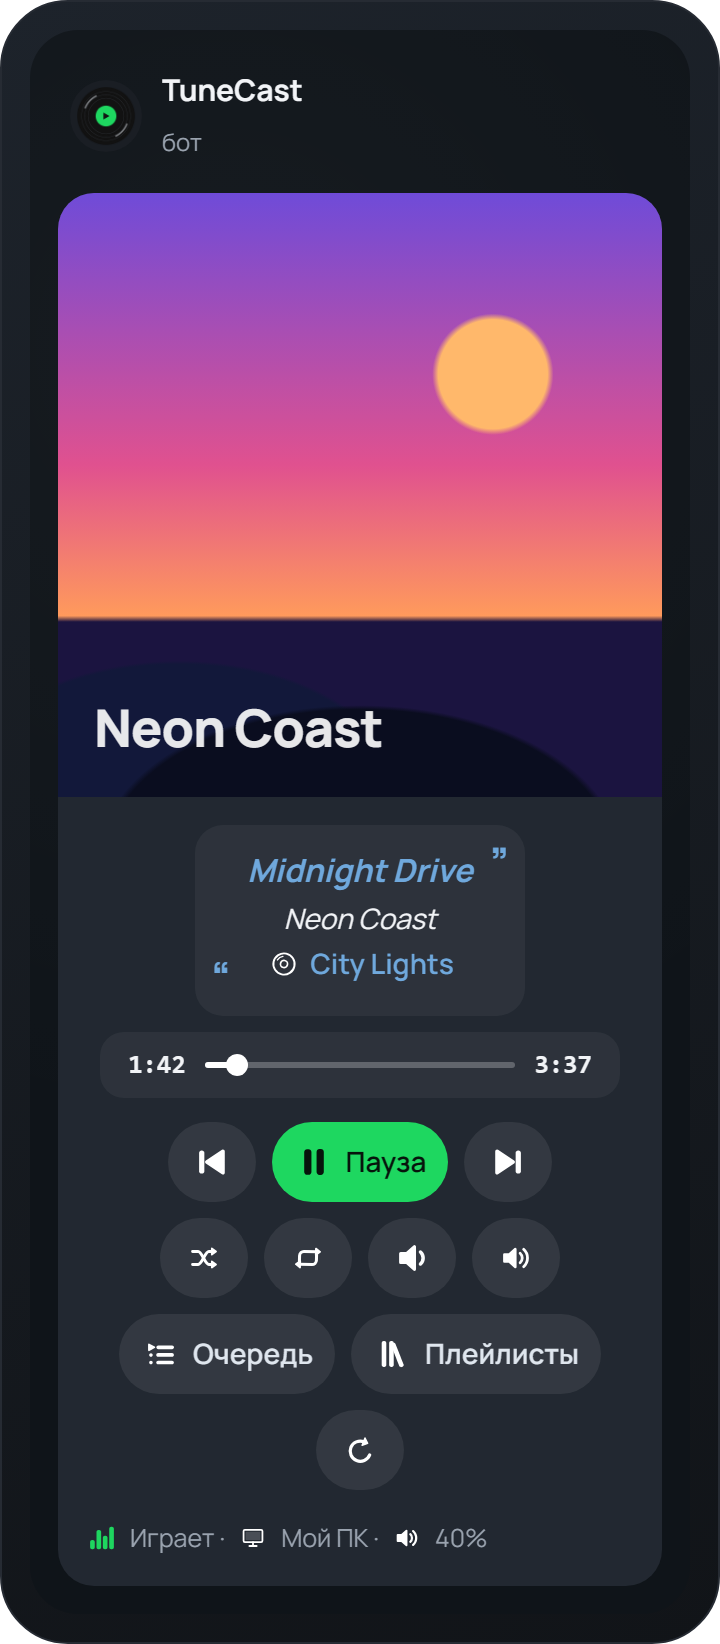
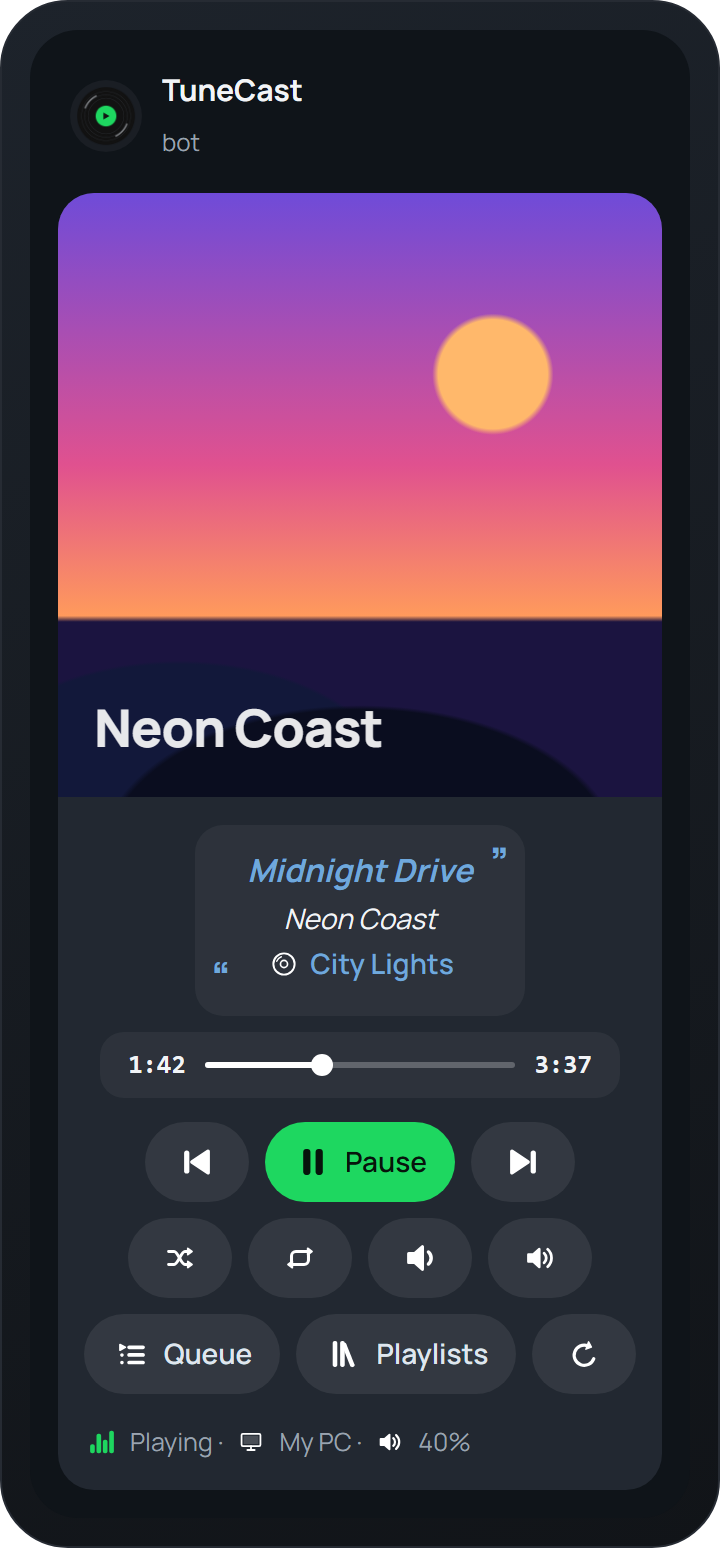
English preview image for the README
The main README now shows the player with English labels,
the Russian README keeps the Russian one (preview.ru.png).

diff --git a/README.ru.md b/README.ru.md
@@ -18,7 +18,7 @@
 ![Python](https://img.shields.io/badge/Python-3.13-3776AB?logo=python&logoColor=white)
 ![License](https://img.shields.io/badge/license-MIT-1ed760)
 
-<img src="assets/preview.png" width="380" alt="Плеер TuneCast в Telegram">
+<img src="assets/preview.ru.png" width="380" alt="Плеер TuneCast в Telegram">
 
 </div>
 
@@ -111,7 +111,7 @@ tunecast/
   emoji_art.py      анимированные иконки, нарисованные кодом (Lottie)
   profile_music.py  трек в «Музыке профиля»
   audio.py          беззвучный MP3 для профиля
-assets/             иконка, логотип и картинка для README
+assets/             иконка, логотип и картинки для README
 tools/make_assets.py  генерация иконки и логотипа
 ```
 </details>

diff --git a/README.md b/README.md
@@ -113,7 +113,7 @@ tunecast/
   emoji_art.py      animated icons drawn in code (Lottie)
   profile_music.py  track in the profile's music section
   audio.py          silent MP3 for the profile
-assets/             icon, logo and README image
+assets/             icon, logo and README images
 tools/make_assets.py  generates the icon and logo
 ```
 </details>
